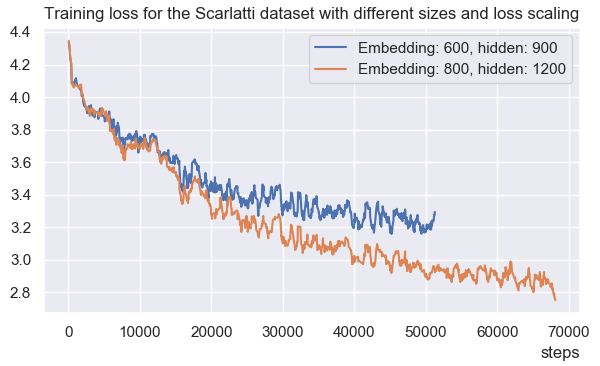
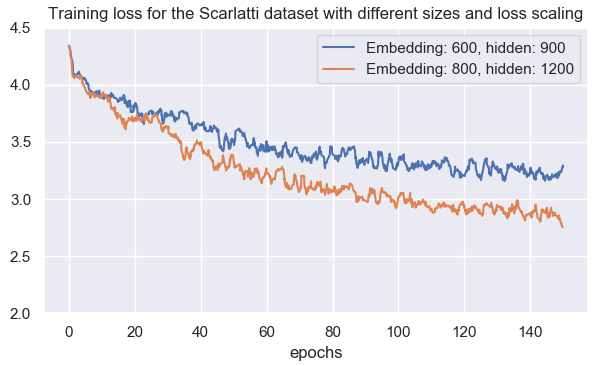
Updated figures

diff --git a/src/generate_log.py b/src/generate_log.py
@@ -9,15 +9,15 @@ file_names = ["logs/bach_38_4/run-version_21-tag-loss.csv",
                 "logs/bach_38_4/run-version_22-tag-loss.csv"]
 labels = ["Chunk size 16", "Chunk size 4"]
 title = "Training loss for two data points with loss scaling"
-scales = [4, 1]
-plot_multiple_diagrams(file_names, labels, title, "img/small_bach_38_4.png", scales=scales)
+scales = [1/2, 1/8]
+plot_multiple_diagrams(file_names, labels, title, "img/small_bach_38_4.png", scales=scales, ylimits=(0, 4.5))
 
 file_names = ["logs/bach_38_4/run-small_bach_chunk16-tag-loss.csv",
                 "logs/bach_38_4/run-small_bach_chunk4-tag-loss.csv"]
 labels = ["Chunk size 16", "Chunk size 4"]
 title = "Training loss for two data points without loss scaling"
-scales = [4, 1]
-plot_multiple_diagrams(file_names, labels, title, "img/small_bach_38_4_without_scaling.png", scales=scales)
+scales = [1/2, 1/8]
+plot_multiple_diagrams(file_names, labels, title, "img/small_bach_38_4_without_scaling.png", scales=scales, ylimits=(0, 4.5))
 
 #############
 # Scarlatti #
@@ -28,12 +28,12 @@ file_names = ["logs/layers/run-version_0-tag-loss.csv",
                 "logs/layers/run-version_24-tag-loss.csv"]
 labels = ["6 layers", "1 layer", "3 layers"]
 title = "Training loss for the Scarlatti dataset for different models with loss scaling"
-scales = [1, 1, 1]
-plot_multiple_diagrams(file_names, labels, title, "img/scarlatti_layers.png", scales=scales, N=10)
+scales = [1/342, 1/386, 1/386]
+plot_multiple_diagrams(file_names, labels, title, "img/scarlatti_layers.png", scales=scales, N=10, ylimits=(2, 4.5))
 
 file_names = ["logs/hidden/run-version_27-tag-loss.csv",
                 "logs/hidden/run-version_29-tag-loss.csv"]
 labels = ["Embedding: 600, hidden: 900", "Embedding: 800, hidden: 1200"]
 title = "Training loss for the Scarlatti dataset with different sizes and loss scaling"
-scales = [1, 1]
-plot_multiple_diagrams(file_names, labels, title, "img/scarlatti_hidden.png", scales=scales, N=10)
+scales = [1/342, 1/455]
+plot_multiple_diagrams(file_names, labels, title, "img/scarlatti_hidden.png", scales=scales, N=10, ylimits=(2, 4.5))

diff --git a/src/utils/generate_figures.py b/src/utils/generate_figures.py
@@ -11,12 +11,14 @@ def moving_average(y, N=1):
     y_smooth = np.convolve(y_padded, np.ones((N,)) / N, mode='valid')
     return y_smooth
 
-def plot_diagram(x, y, label, title="", show=False, file_name=None, scale=1, N=1):
+def plot_diagram(x, y, label, title="", show=False, file_name=None, scale=1, N=1, ylimits=None):
     x = [scale * elem for elem in x]
     plt.plot(x, moving_average(y, N), label=label)
     matplotlib.rcParams.update({'font.size': 72})
-    plt.xlabel("steps", horizontalalignment='right', x=1.0)
+    plt.xlabel("epochs")
     plt.title(title)
+    if ylimits is not None:
+        plt.ylim(ylimits)
     plt.legend()
     plt.tight_layout(pad=0.1)
     fig = plt.gcf()
@@ -39,7 +41,7 @@ def open_csv(file_name, header=True):
             y.append(float(row[2]))
     return x, y
 
-def plot_multiple_diagrams(file_names, labels, title, out_img, scales=None, N=1):
+def plot_multiple_diagrams(file_names, labels, title, out_img, scales=None, N=1, ylimits=None):
     nr_of_files = len(file_names)
     assert nr_of_files == len(labels)
     if scales is not None:
@@ -50,6 +52,6 @@ def plot_multiple_diagrams(file_names, labels, title, out_img, scales=None, N=1)
     for i, (file_name, label, scale) in enumerate(zip(file_names, labels, scales)):
         x, y = open_csv(file_name)
         if i == nr_of_files - 1:
-            plot_diagram(x, y, label, title, show=True, file_name=out_img, scale=scale, N=N)
+            plot_diagram(x, y, label, title, show=True, file_name=out_img, scale=scale, N=N, ylimits=ylimits)
         else:
-            plot_diagram(x, y, label, title, scale=scale, N=N)
+            plot_diagram(x, y, label, title, scale=scale, N=N, ylimits=ylimits)
